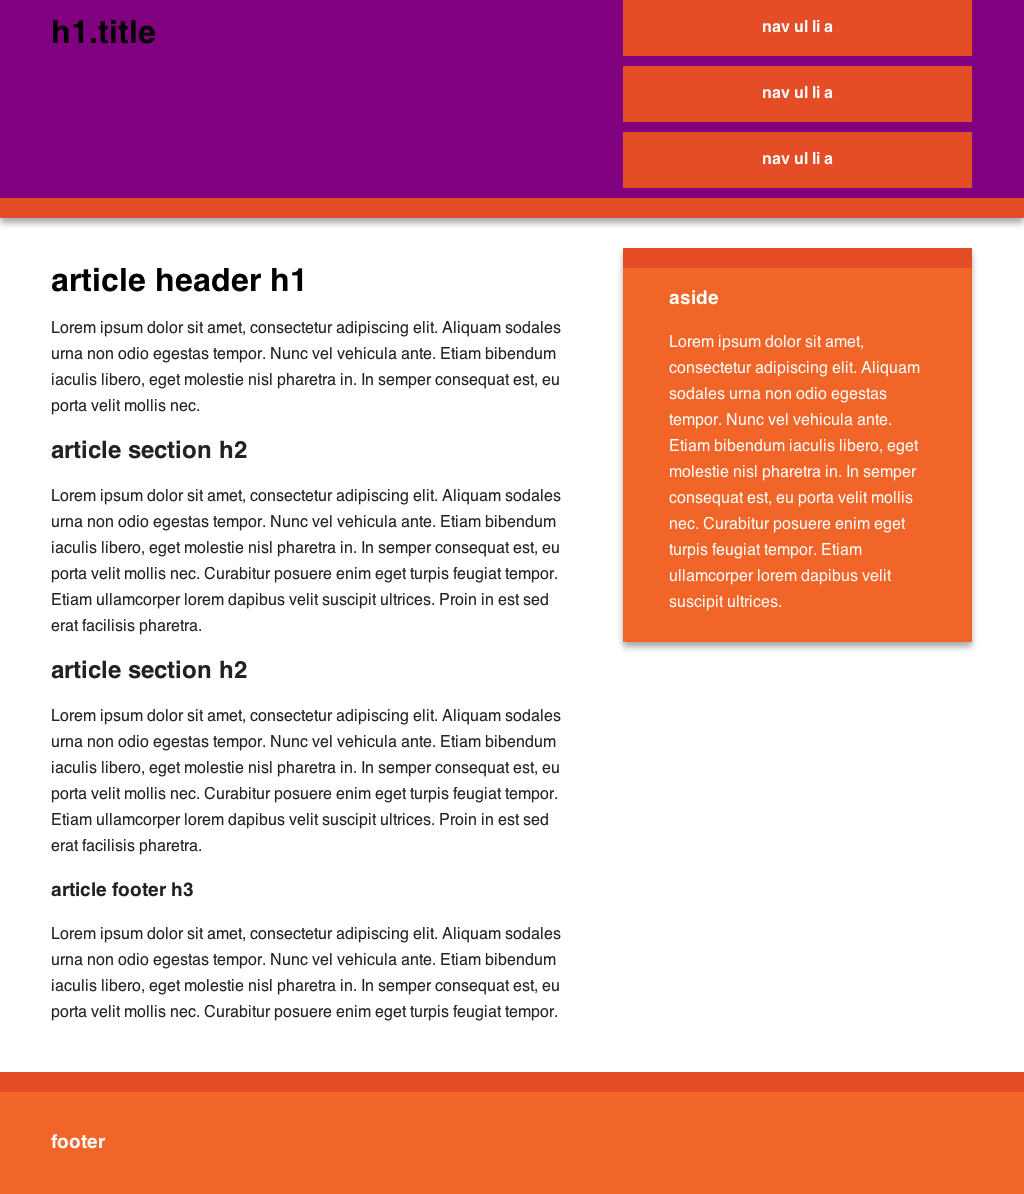
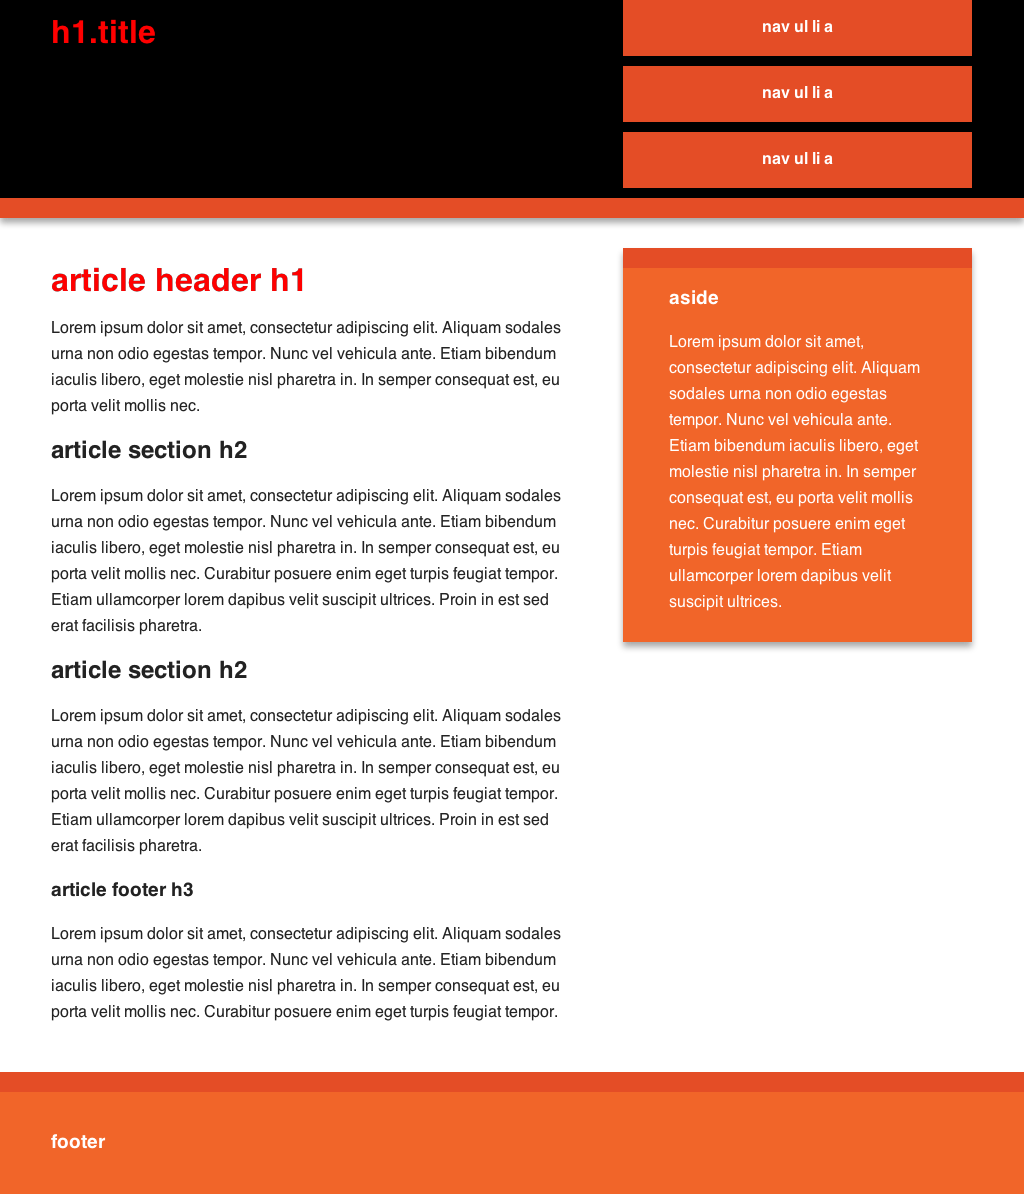
first test changed images

Changed region(s): [[0.0, 0.0, 1.0, 0.1859], [0.0312, 0.2169, 0.3125, 0.2479]]

diff --git a/test/files/css/main.css b/test/files/css/main.css
@@ -397,9 +397,9 @@ nav a:hover {
 }
 
 .header-container {
-    background: purple;
+    background: black;
 }
 
 .header-container h1, body h1 {
-    color: black!important;
+    color: red!important;
 }
